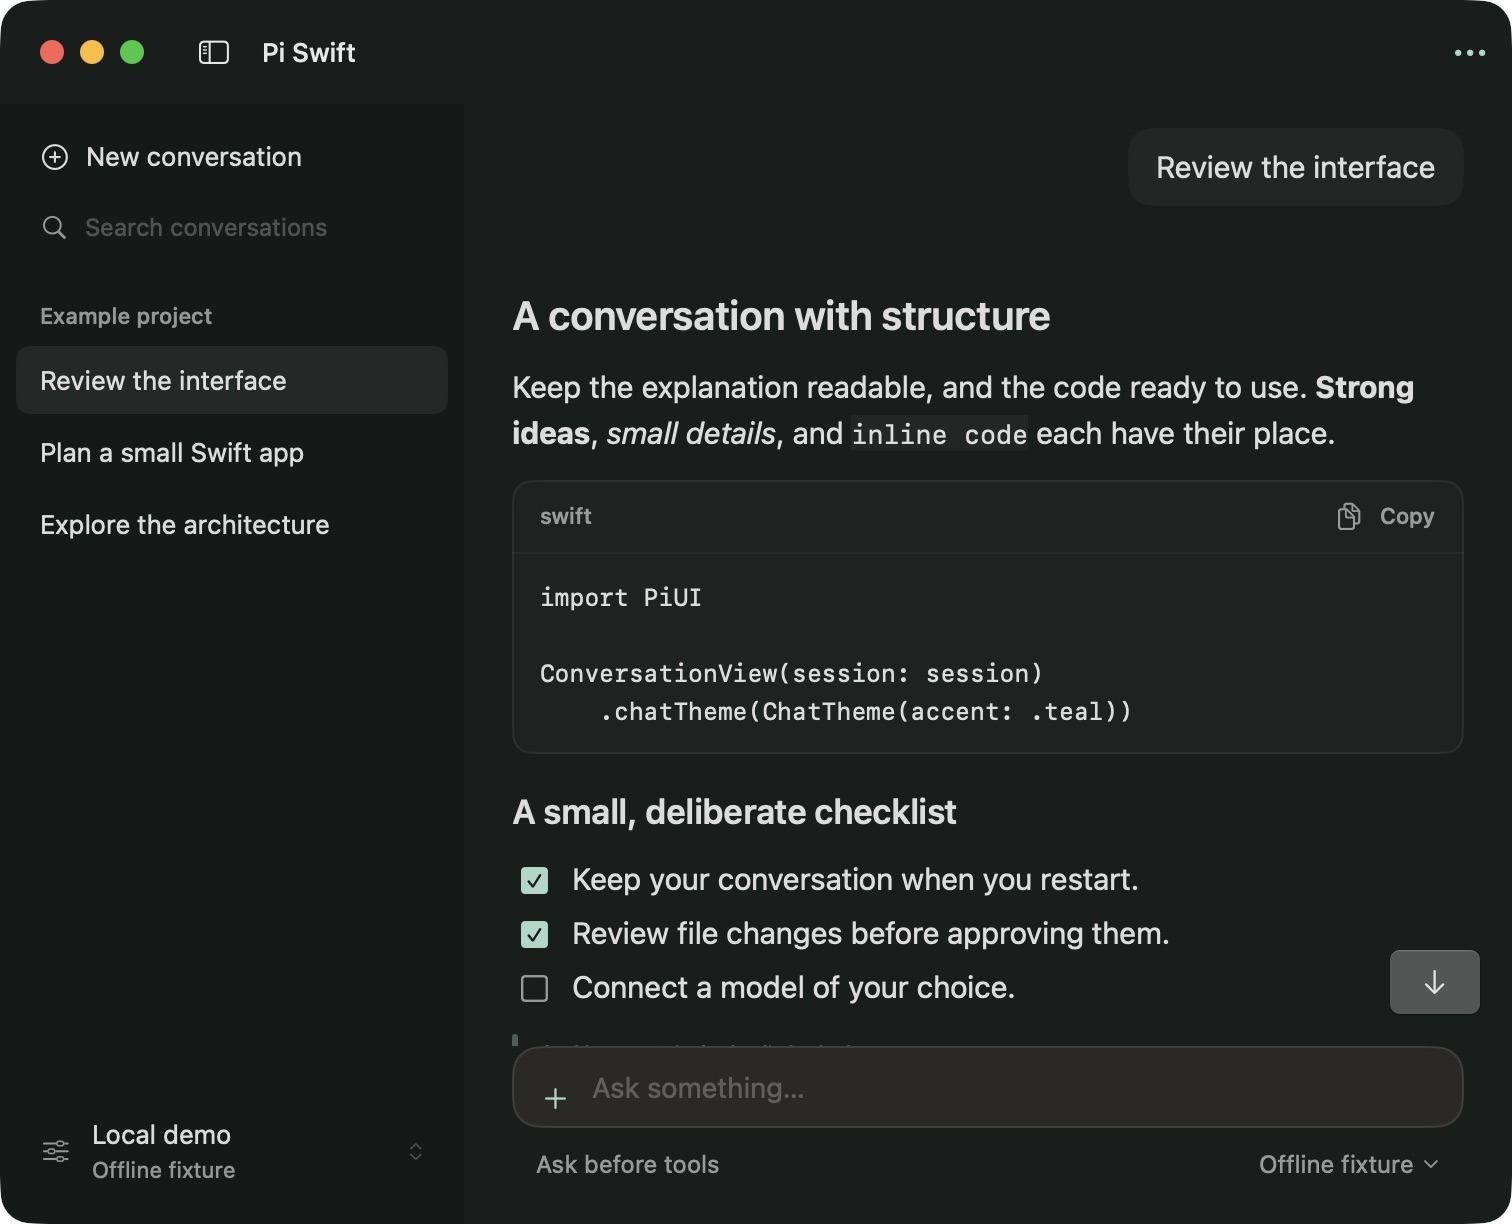
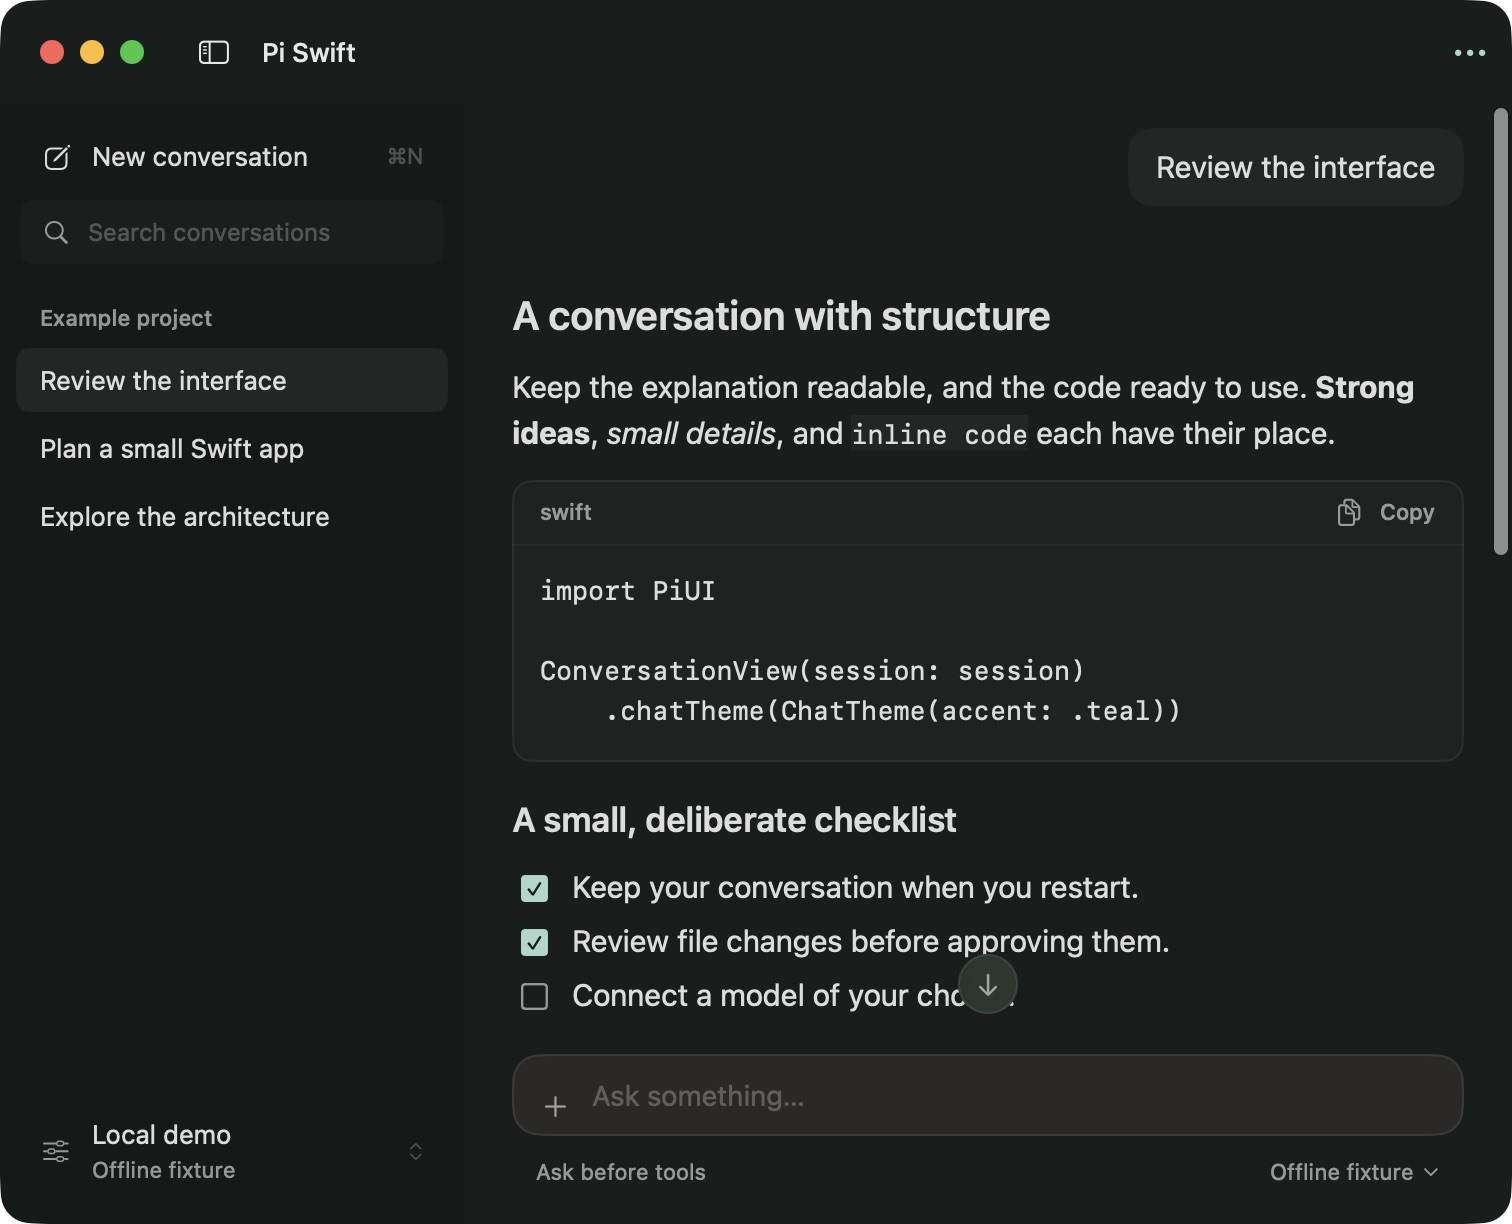
Refine native chat spacing, sidebar feedback and code readability

diff --git a/Examples/PiSwift/ConversationSidebar.swift b/Examples/PiSwift/ConversationSidebar.swift
@@ -12,11 +12,12 @@ struct ConversationSidebar: View {
     @State private var loading = false
     @State private var loadError: String?
     @State private var refresh = UUID()
-    @State private var hovered: String?
+    @FocusState private var searchFocused: Bool
 
     private var locked: Bool { workspace.busy || workspace.session?.isRunning == true }
     private var filtered: [SessionInfo] {
-        sessions.filter { query.isEmpty || title($0).localizedCaseInsensitiveContains(query) }
+        let term = query.trimmingCharacters(in: .whitespacesAndNewlines)
+        return sessions.filter { term.isEmpty || title($0).localizedCaseInsensitiveContains(term) }
     }
     private var refreshKey: String {
         "\(workspace.cwd ?? "")|\(workspace.session?.sessionFile ?? "")|\(workspace.session?.isRunning == true)|\(refresh)"
@@ -24,42 +25,47 @@ struct ConversationSidebar: View {
     var body: some View {
         VStack(alignment: .leading, spacing: 0) {
             Button { Task { await workspace.newConversation() } } label: {
-                Label("New conversation", systemImage: "plus.circle")
-                    .frame(maxWidth: .infinity, alignment: .leading).padding(.horizontal, 12).padding(.vertical, 10)
+                HStack(spacing: 10) {
+                    Image(systemName: "square.and.pencil").frame(width: 16)
+                    Text("New conversation")
+                    Spacer()
+                    Text("⌘N").font(.system(size: 11)).foregroundStyle(.tertiary)
+                }.frame(maxWidth: .infinity, alignment: .leading).padding(.horizontal, 12).padding(.vertical, 10)
                     .contentShape(Rectangle())
-            }.buttonStyle(.plain).disabled(locked).keyboardShortcut("n", modifiers: .command)
+            }.buttonStyle(SidebarButtonStyle()).disabled(locked).keyboardShortcut("n", modifiers: .command)
                 .padding(.top, 8)
             HStack(spacing: 8) {
-                Image(systemName: "magnifyingglass").foregroundStyle(.secondary)
+                Image(systemName: "magnifyingglass").frame(width: 16).foregroundStyle(.secondary)
                 TextField("Search conversations", text: $query).textFieldStyle(.plain)
-                    .accessibilityLabel("Search conversations")
+                    .accessibilityLabel("Search conversations").focused($searchFocused)
+                    .onExitCommand { query = ""; searchFocused = false }
                 if !query.isEmpty {
-                    Button { query = "" } label: { Image(systemName: "xmark.circle.fill") }
+                    Button { query = "" } label: { Image(systemName: "xmark.circle.fill").frame(width: 20, height: 20) }
                         .buttonStyle(.plain).foregroundStyle(.secondary).accessibilityLabel("Clear search")
                 }
-            }.font(.system(size: 12)).padding(.horizontal, 12).padding(.vertical, 10)
+            }.font(.system(size: 12)).padding(.horizontal, 10).frame(height: 32)
+                .background(.primary.opacity(searchFocused ? 0.045 : 0.025), in: RoundedRectangle(cornerRadius: 7))
+                .overlay { RoundedRectangle(cornerRadius: 7).strokeBorder(PiBrand.accent.opacity(searchFocused ? 0.30 : 0), lineWidth: 1) }
+                .padding(.horizontal, 2).padding(.top, 4)
 
             Text(workspace.cwd.map { URL(fileURLWithPath: $0).lastPathComponent } ?? "Conversations")
                 .font(.system(size: 11, weight: .medium)).foregroundStyle(.secondary)
-                .lineLimit(1).padding(.horizontal, 12).padding(.top, 20).padding(.bottom, 8)
+                .lineLimit(1).truncationMode(.middle).help(workspace.cwd ?? "Conversations").padding(.horizontal, 12).padding(.top, 20).padding(.bottom, 8)
             ScrollView {
                 LazyVStack(alignment: .leading, spacing: 2) {
                     if (workspace.session?.sessionFile == nil || (workspace.session?.messages.isEmpty == true && !sessions.contains { $0.path == workspace.session?.sessionFile })) && query.isEmpty {
                         Label(workspace.profile == nil ? "Offline demo" : "New conversation", systemImage: "bubble.left")
                             .lineLimit(1).frame(maxWidth: .infinity, alignment: .leading)
-                            .padding(.horizontal, 12).padding(.vertical, 9)
+                            .padding(.horizontal, 12).padding(.vertical, 8)
                             .background(.primary.opacity(0.055), in: RoundedRectangle(cornerRadius: 7))
                     }
                     ForEach(filtered, id: \.path) { info in
                         Button { Task { await open(info) } } label: {
                             Text(title(info)).lineLimit(1)
                                 .frame(maxWidth: .infinity, alignment: .leading)
-                                .padding(.horizontal, 12).padding(.vertical, 9)
+                                .padding(.horizontal, 12).padding(.vertical, 8)
                                 .contentShape(Rectangle())
-                                .background(.primary.opacity(info.path == workspace.session?.sessionFile ? 0.075 : hovered == info.path ? 0.035 : 0),
-                                            in: RoundedRectangle(cornerRadius: 7))
-                        }.buttonStyle(.plain).disabled(locked)
-                            .onHover { hovered = $0 ? info.path : nil }
+                        }.buttonStyle(SidebarButtonStyle(selected: info.path == workspace.session?.sessionFile)).disabled(locked)
                             .help("\(title(info))\n\(info.modified.formatted(date: .abbreviated, time: .shortened))")
                             .accessibilityAddTraits(info.path == workspace.session?.sessionFile ? .isSelected : [])
                     }
@@ -78,15 +84,15 @@ struct ConversationSidebar: View {
             Spacer(minLength: 12)
             Button(action: configure) {
                 HStack(spacing: 10) {
-                    Image(systemName: "slider.horizontal.3").foregroundStyle(.secondary)
+                    Image(systemName: "slider.horizontal.3").frame(width: 16).foregroundStyle(.secondary)
                     VStack(alignment: .leading, spacing: 3) {
                         Text(workspace.profile?.name ?? "Model & workspace").lineLimit(1)
-                        Text(workspace.profile?.modelID ?? "Offline demo").font(.system(size: 11)).foregroundStyle(.secondary)
+                        Text(workspace.profile?.modelID ?? "Offline demo").font(.system(size: 11)).foregroundStyle(.secondary).lineLimit(1).truncationMode(.middle)
                     }
                     Spacer(minLength: 0)
                     Image(systemName: "chevron.up.chevron.down").font(.system(size: 9)).foregroundStyle(.tertiary)
                 }.padding(12).contentShape(Rectangle())
-            }.buttonStyle(.plain).disabled(locked).help("Model & workspace")
+            }.buttonStyle(SidebarButtonStyle()).disabled(locked).help("Model & workspace")
                 .accessibilityLabel("Model & workspace").padding(.bottom, 8)
         }.font(.system(size: 13)).padding(.horizontal, 8)
             .background(PiBrand.sidebar)
@@ -113,6 +119,18 @@ struct ConversationSidebar: View {
     private func open(_ info: SessionInfo) async {
         do { try await workspace.resume(info) }
         catch { workspace.error = String(describing: error) }
+    }
+}
+private struct SidebarButtonStyle: ButtonStyle {
+    var selected = false
+    @State private var hovered = false
+    @Environment(\.isEnabled) private var enabled
+    func makeBody(configuration: Configuration) -> some View {
+        configuration.label
+            .background(.primary.opacity(configuration.isPressed ? 0.10 : selected ? 0.065 : hovered && enabled ? 0.035 : 0),
+                        in: RoundedRectangle(cornerRadius: 7))
+            .opacity(enabled ? 1 : 0.45)
+            .onHover { hovered = $0 }
     }
 }
 #endif

diff --git a/Sources/PiUI/Composer.swift b/Sources/PiUI/Composer.swift
@@ -32,7 +32,7 @@ public struct Composer: View {
                     } label: {
                         Image(systemName: "plus").font(.system(size: 16, weight: .regular)).frame(width: 24, height: 28)
                     }.menuStyle(.borderlessButton).menuIndicator(.hidden).fixedSize()
-                        .foregroundStyle(.secondary).help("Insert text file").accessibilityLabel("Add content")
+                        .tint(.secondary).foregroundStyle(.secondary).help("Insert text file").accessibilityLabel("Add content")
                 }
                 TextField("Ask something…", text: $text, axis: .vertical)
                     .textFieldStyle(.plain).font(.system(size: 14)).lineLimit(1...8)
@@ -53,12 +53,12 @@ public struct Composer: View {
             }.padding(.horizontal, 12).padding(.vertical, 8)
                 .background(.background, in: RoundedRectangle(cornerRadius: 14))
                 .overlay(RoundedRectangle(cornerRadius: 14)
-                    .strokeBorder(Color.primary.opacity(focused ? 0.22 : 0.12), lineWidth: 1))
-                .shadow(color: .black.opacity(0.035), radius: 10, y: 3)
+                    .strokeBorder(Color.primary.opacity(focused ? 0.20 : 0.10), lineWidth: 1))
+                .shadow(color: .black.opacity(0.025), radius: 8, y: 2)
                 .animation(.easeOut(duration: 0.15), value: focused)
             HStack(spacing: 12) {
                 Text(context?.policy ?? (isRunning ? "You can prepare your next message" : "⌘ Return to send"))
-                    .lineLimit(1).help(context?.policy ?? "⌘ Return to send")
+                    .lineLimit(1).fixedSize(horizontal: true, vertical: false).help(context?.policy ?? "⌘ Return to send")
                 Spacer(minLength: 8)
                 if let context {
                     Button(action: context.configure) {
@@ -67,9 +67,9 @@ public struct Composer: View {
                             Image(systemName: "chevron.down").font(.system(size: 8, weight: .medium))
                         }.frame(maxWidth: 220, alignment: .trailing).contentShape(Rectangle())
                     }.buttonStyle(.plain).disabled(isRunning)
-                        .help("Model & workspace").accessibilityLabel("Model: \(context.model)")
+                        .help("Model & workspace · \(context.model)").accessibilityLabel("Model: \(context.model)")
                 }
-            }.font(.system(size: 12)).foregroundStyle(.secondary).padding(.horizontal, 12).frame(minHeight: 20)
+            }.font(.system(size: 11)).foregroundStyle(.secondary).padding(.horizontal, 12).frame(minHeight: 20)
         }
     }
 }

diff --git a/Sources/PiUI/ConversationView.swift b/Sources/PiUI/ConversationView.swift
@@ -40,10 +40,16 @@ public struct ConversationView<MessageContent: View>: View {
                     }.coordinateSpace(name: "pi-conversation")
                         .onChange(of: session.messages.count) { if followsBottom { proxy.scrollTo("bottom", anchor: .bottom) } }
                         .onChange(of: session.messages.last?.text) { if followsBottom { proxy.scrollTo("bottom", anchor: .bottom) } }
-                        .overlay(alignment: .bottomTrailing) {
+                        .overlay(alignment: .bottom) {
                             if !followsBottom && distance > 80 {
-                                Button { followsBottom = true; proxy.scrollTo("bottom", anchor: .bottom) } label: { Image(systemName: "arrow.down").padding(8) }
-                                    .buttonStyle(.bordered).help("Back to latest").accessibilityLabel("Back to latest").padding(16)
+                                Button { followsBottom = true; proxy.scrollTo("bottom", anchor: .bottom) } label: {
+                                    Image(systemName: "arrow.down").font(.system(size: 12, weight: .medium))
+                                        .frame(width: 30, height: 30)
+                                        .background(.regularMaterial, in: Circle())
+                                        .overlay { Circle().strokeBorder(.primary.opacity(0.08), lineWidth: 1) }
+                                        .shadow(color: .black.opacity(0.07), radius: 5, y: 2)
+                                }.buttonStyle(.plain).foregroundStyle(.secondary)
+                                    .help("Back to latest").accessibilityLabel("Back to latest").padding(.bottom, 8)
                             }
                         }
                 }
@@ -60,7 +66,7 @@ public struct ConversationView<MessageContent: View>: View {
                 }
                 Composer(text: $session.draft, isRunning: session.isRunning, context: composerContext,
                          send: { Task { await session.send() } }, stop: { session.stop() })
-            }.padding(.horizontal, 24).padding(.bottom, 20).frame(maxWidth: theme.contentWidth).frame(maxWidth: .infinity)
+            }.padding(.horizontal, 24).padding(.top, 12).padding(.bottom, 16).frame(maxWidth: theme.contentWidth).frame(maxWidth: .infinity)
         }
     }
     private var emptyState: some View {

diff --git a/Sources/PiUI/MarkdownMessage.swift b/Sources/PiUI/MarkdownMessage.swift
@@ -124,15 +124,16 @@ private struct MarkdownCodeBlock: View {
                     copied = true
                 } label: {
                     Label(copied ? "Copied" : "Copy", systemImage: copied ? "checkmark" : "doc.on.doc")
+                        .frame(minWidth: 52, alignment: .trailing).contentShape(Rectangle())
                 }.buttonStyle(.plain).help("Copy code").accessibilityLabel(copied ? "Code copied" : "Copy code")
                     .task(id: copied) { if copied { try? await Task.sleep(for: .seconds(2)); copied = false } }
-            }.font(.system(size: 11, weight: .medium)).foregroundStyle(.secondary).padding(.horizontal, 14).padding(.vertical, 10)
+            }.font(.system(size: 11, weight: .medium)).foregroundStyle(.secondary).padding(.horizontal, 14).padding(.vertical, 8)
             Rectangle().fill(.primary.opacity(0.055)).frame(height: 1)
             ScrollView([.horizontal, .vertical]) {
-                Text(displayed.isEmpty ? " " : displayed).font(.system(size: 12, design: .monospaced))
+                Text(displayed.isEmpty ? " " : displayed).font(.system(size: 13, design: .monospaced))
                     .lineSpacing(4).textSelection(.enabled).fixedSize(horizontal: true, vertical: true)
                     .padding(14).frame(maxWidth: .infinity, alignment: .leading)
-            }.frame(height: min(360, CGFloat(displayed.components(separatedBy: "\n").count) * 18 + 28))
+            }.frame(height: min(360, CGFloat(displayed.components(separatedBy: "\n").count) * 20 + 28))
         }.background(.primary.opacity(0.025), in: RoundedRectangle(cornerRadius: 10))
             .overlay { RoundedRectangle(cornerRadius: 10).strokeBorder(.primary.opacity(0.07), lineWidth: 1) }
     }

diff --git a/Docs/VALIDATION.md b/Docs/VALIDATION.md
@@ -28,3 +28,7 @@ Not validated: paid/live provider calls, real OAuth accounts, iOS UI, Intel hard
 CI builds all targets, then runs every test module in its own process with `--skip-build --no-parallel --filter '^ModuleName\.'`, matching the per-module process isolation of the local Swift 6.4 runner. Default parallel execution on the CI runner overloaded sub-second timing fixtures. Each module retains its assertions and internal concurrency, with explicit step timeouts and unbuffered logs. Independent modules still run after a test failure so their diagnostics remain available. Stress tests observe the agent-start event instead of polling a transient state, and their deadlines can report a suspended operation without waiting indefinitely for task-group teardown.
 
 The tool-duration regression compares the reported execution time with measured hook and enclosing intervals, rather than assuming a 30 ms sleep finishes within 100 ms on a shared CI runner. It still verifies hook exclusion and absent duration on a blocked tool.
+
+## Detail polish — 2026-10-29
+
+Native acceptance used the isolated local fixture: search focus/filter/Escape, code-copy confirmation, the circular return-to-latest control, long model names in the sidebar and composer, and light/dark compact layouts. The eight-module test suite passed. README screenshots were refreshed from this build. No live provider or personal conversation was used.

diff --git a/Docs/UI.md b/Docs/UI.md
@@ -90,3 +90,7 @@ Only HTTP, HTTPS and mailto links are interactive. Images display their alternat
 
 
 `ComposerContext` lets a host supply the model label, approval label, settings action and text-file insertion action. Pi Swift's Add menu inserts UTF-8 file text (up to 128 KiB) into the draft; it does not upload an attachment or submit a message. The draft stays editable during generation. The model control is disabled while a request is running, and permissions remain explicit per tool call. Empty input has no send button; Cmd-Return sends nonblank input and Return inserts a newline.
+
+### Detail polish
+
+The composer keeps a 12 pt gap from the transcript and a smaller 11 pt metadata footer. Long model names truncate in the middle, with the full name available in the tooltip; the permission label stays readable. Back to latest is a quiet 30 pt circular overlay. Code uses a 13 pt monospaced face, a tighter header and a stable-width copy action. Sidebar actions share hover/pressed/selection treatment; search has a subtle focus border and Escape clears and leaves the field.
